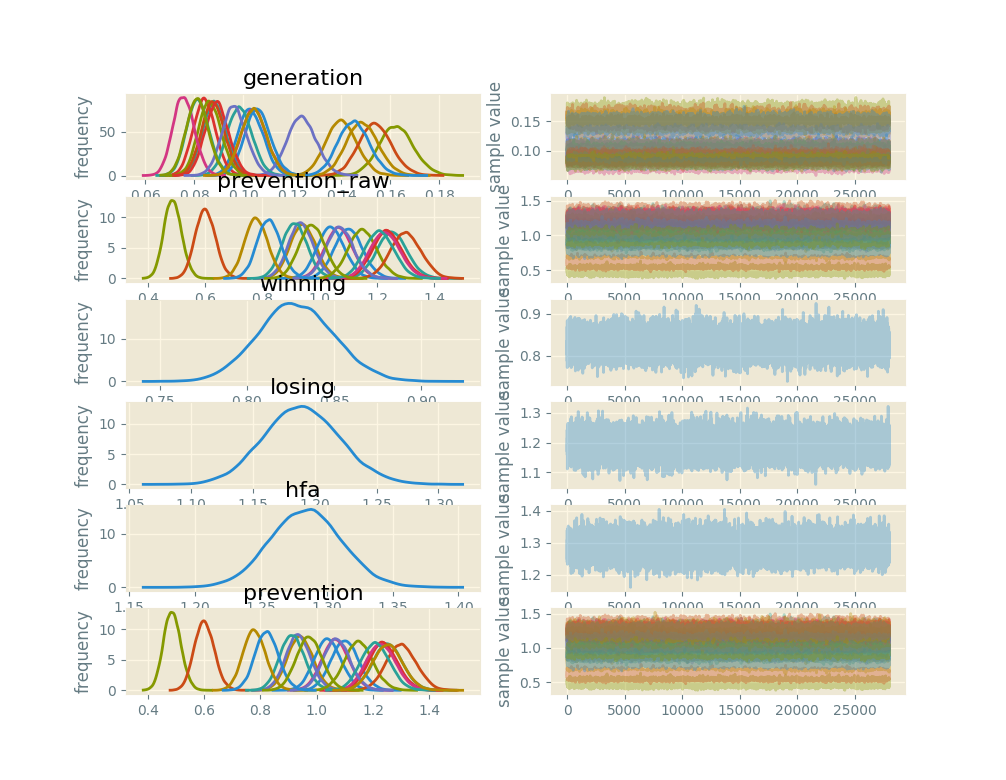
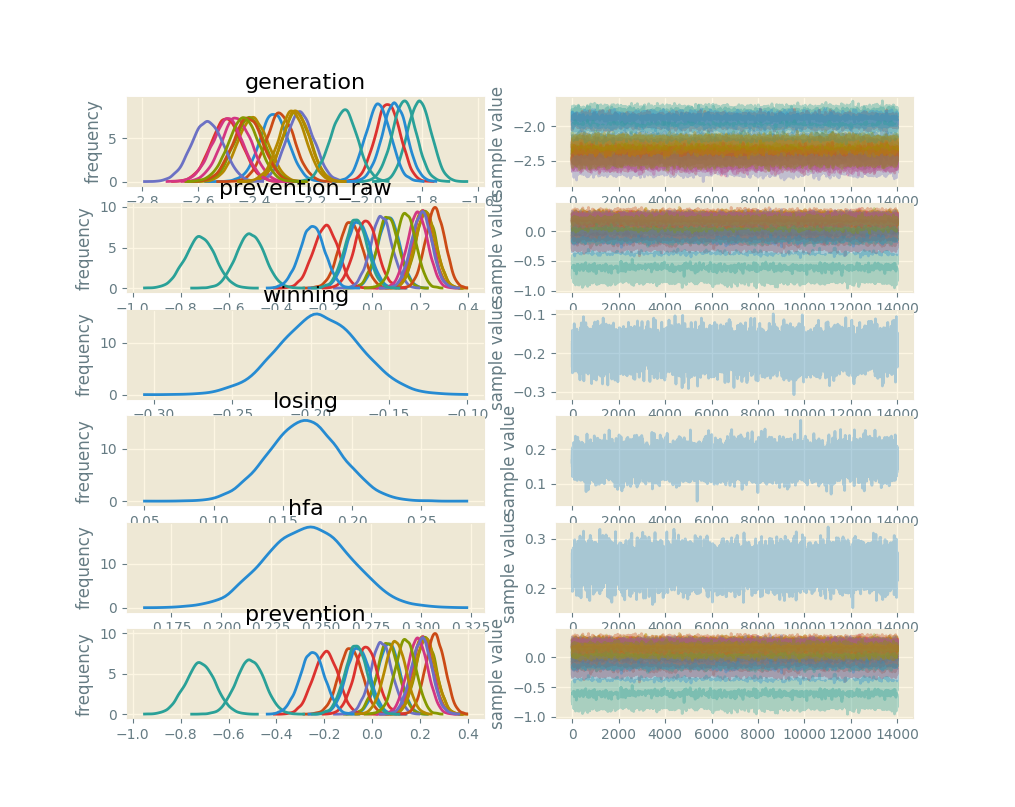
Move the model to log space (closes #22)

diff --git a/run.py b/run.py
@@ -33,9 +33,9 @@ def graph(samples, team_map):
 
     labels = list(team_map.keys())  # Magically in the correct order
 
-    # Extract samples and convert them to the time to shot interpretation
-    generation = 1.0 / (np.mean(samples['prevention']) * samples['generation'])
-    prevention = 1.0 / (np.mean(samples['generation']) * samples['prevention'])
+    # Extract the samples, move out of log space, convert to mean time to shot
+    generation = 1.0 / np.exp((np.mean(samples['prevention']) + samples['generation']))
+    prevention = 1.0 / np.exp((np.mean(samples['generation']) + samples['prevention']))
 
     gen_means = np.apply_along_axis(np.mean, 0, generation)
     pre_means = np.apply_along_axis(np.mean, 0, prevention)

diff --git a/README.md b/README.md
@@ -14,13 +14,12 @@ samples, team_map = run()
 graph(samples, team_map)
 ```
 which produces a scatter plot of team coefficients with 50% CIs:
-
 ![Team coefficients](doc/figures/team_scatter.png)
 
 Note that while the CIs are very wide, this is due
 to the fact that that the mean time to shot is the inverse of the shooting rate
-and thus the effect of extreme values is magnified. The underlying team 
-coefficients are in fact significantly different from each other, as illustrated
+and thus the effect of extremely small values is magnified. The underlying team 
+coefficients are in fact significantly different from one another, as illustrated
 by further running
 
 ```python
@@ -28,7 +27,6 @@ samples.plot()
 plt.show()
 ```
 which yields
-
 ![Samples](doc/figures/fit.png)
 
 ### Status
